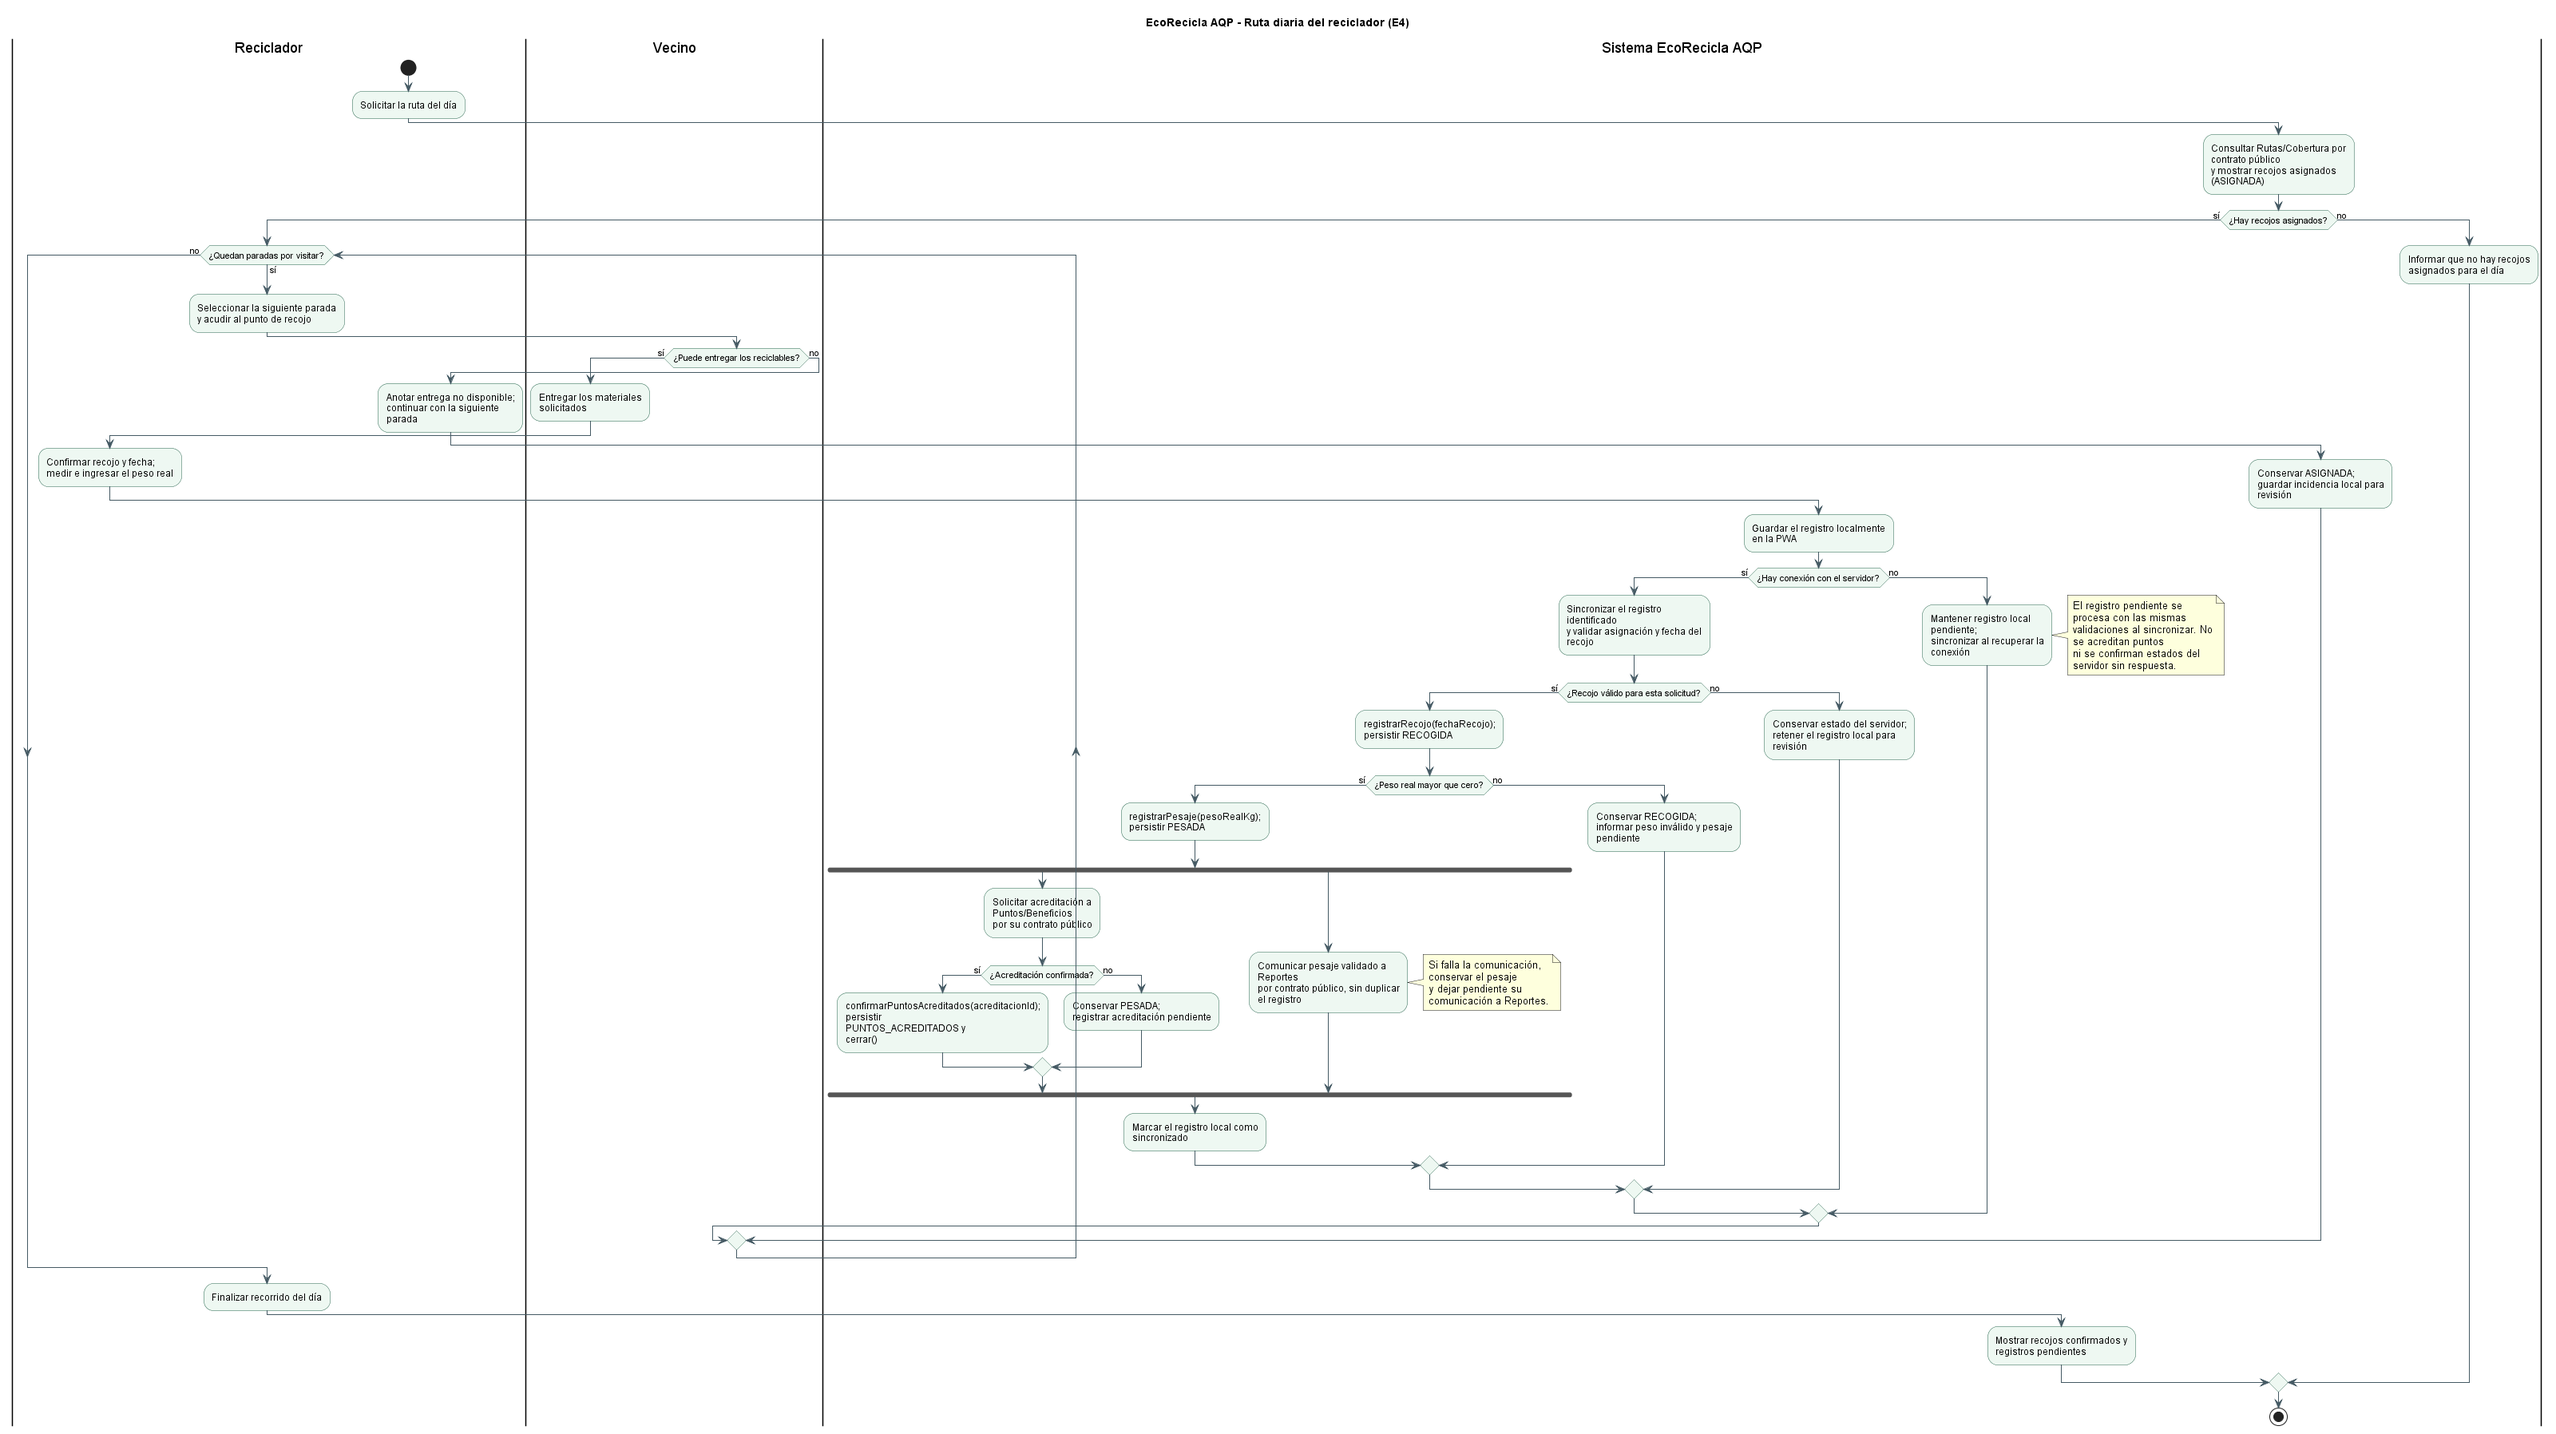
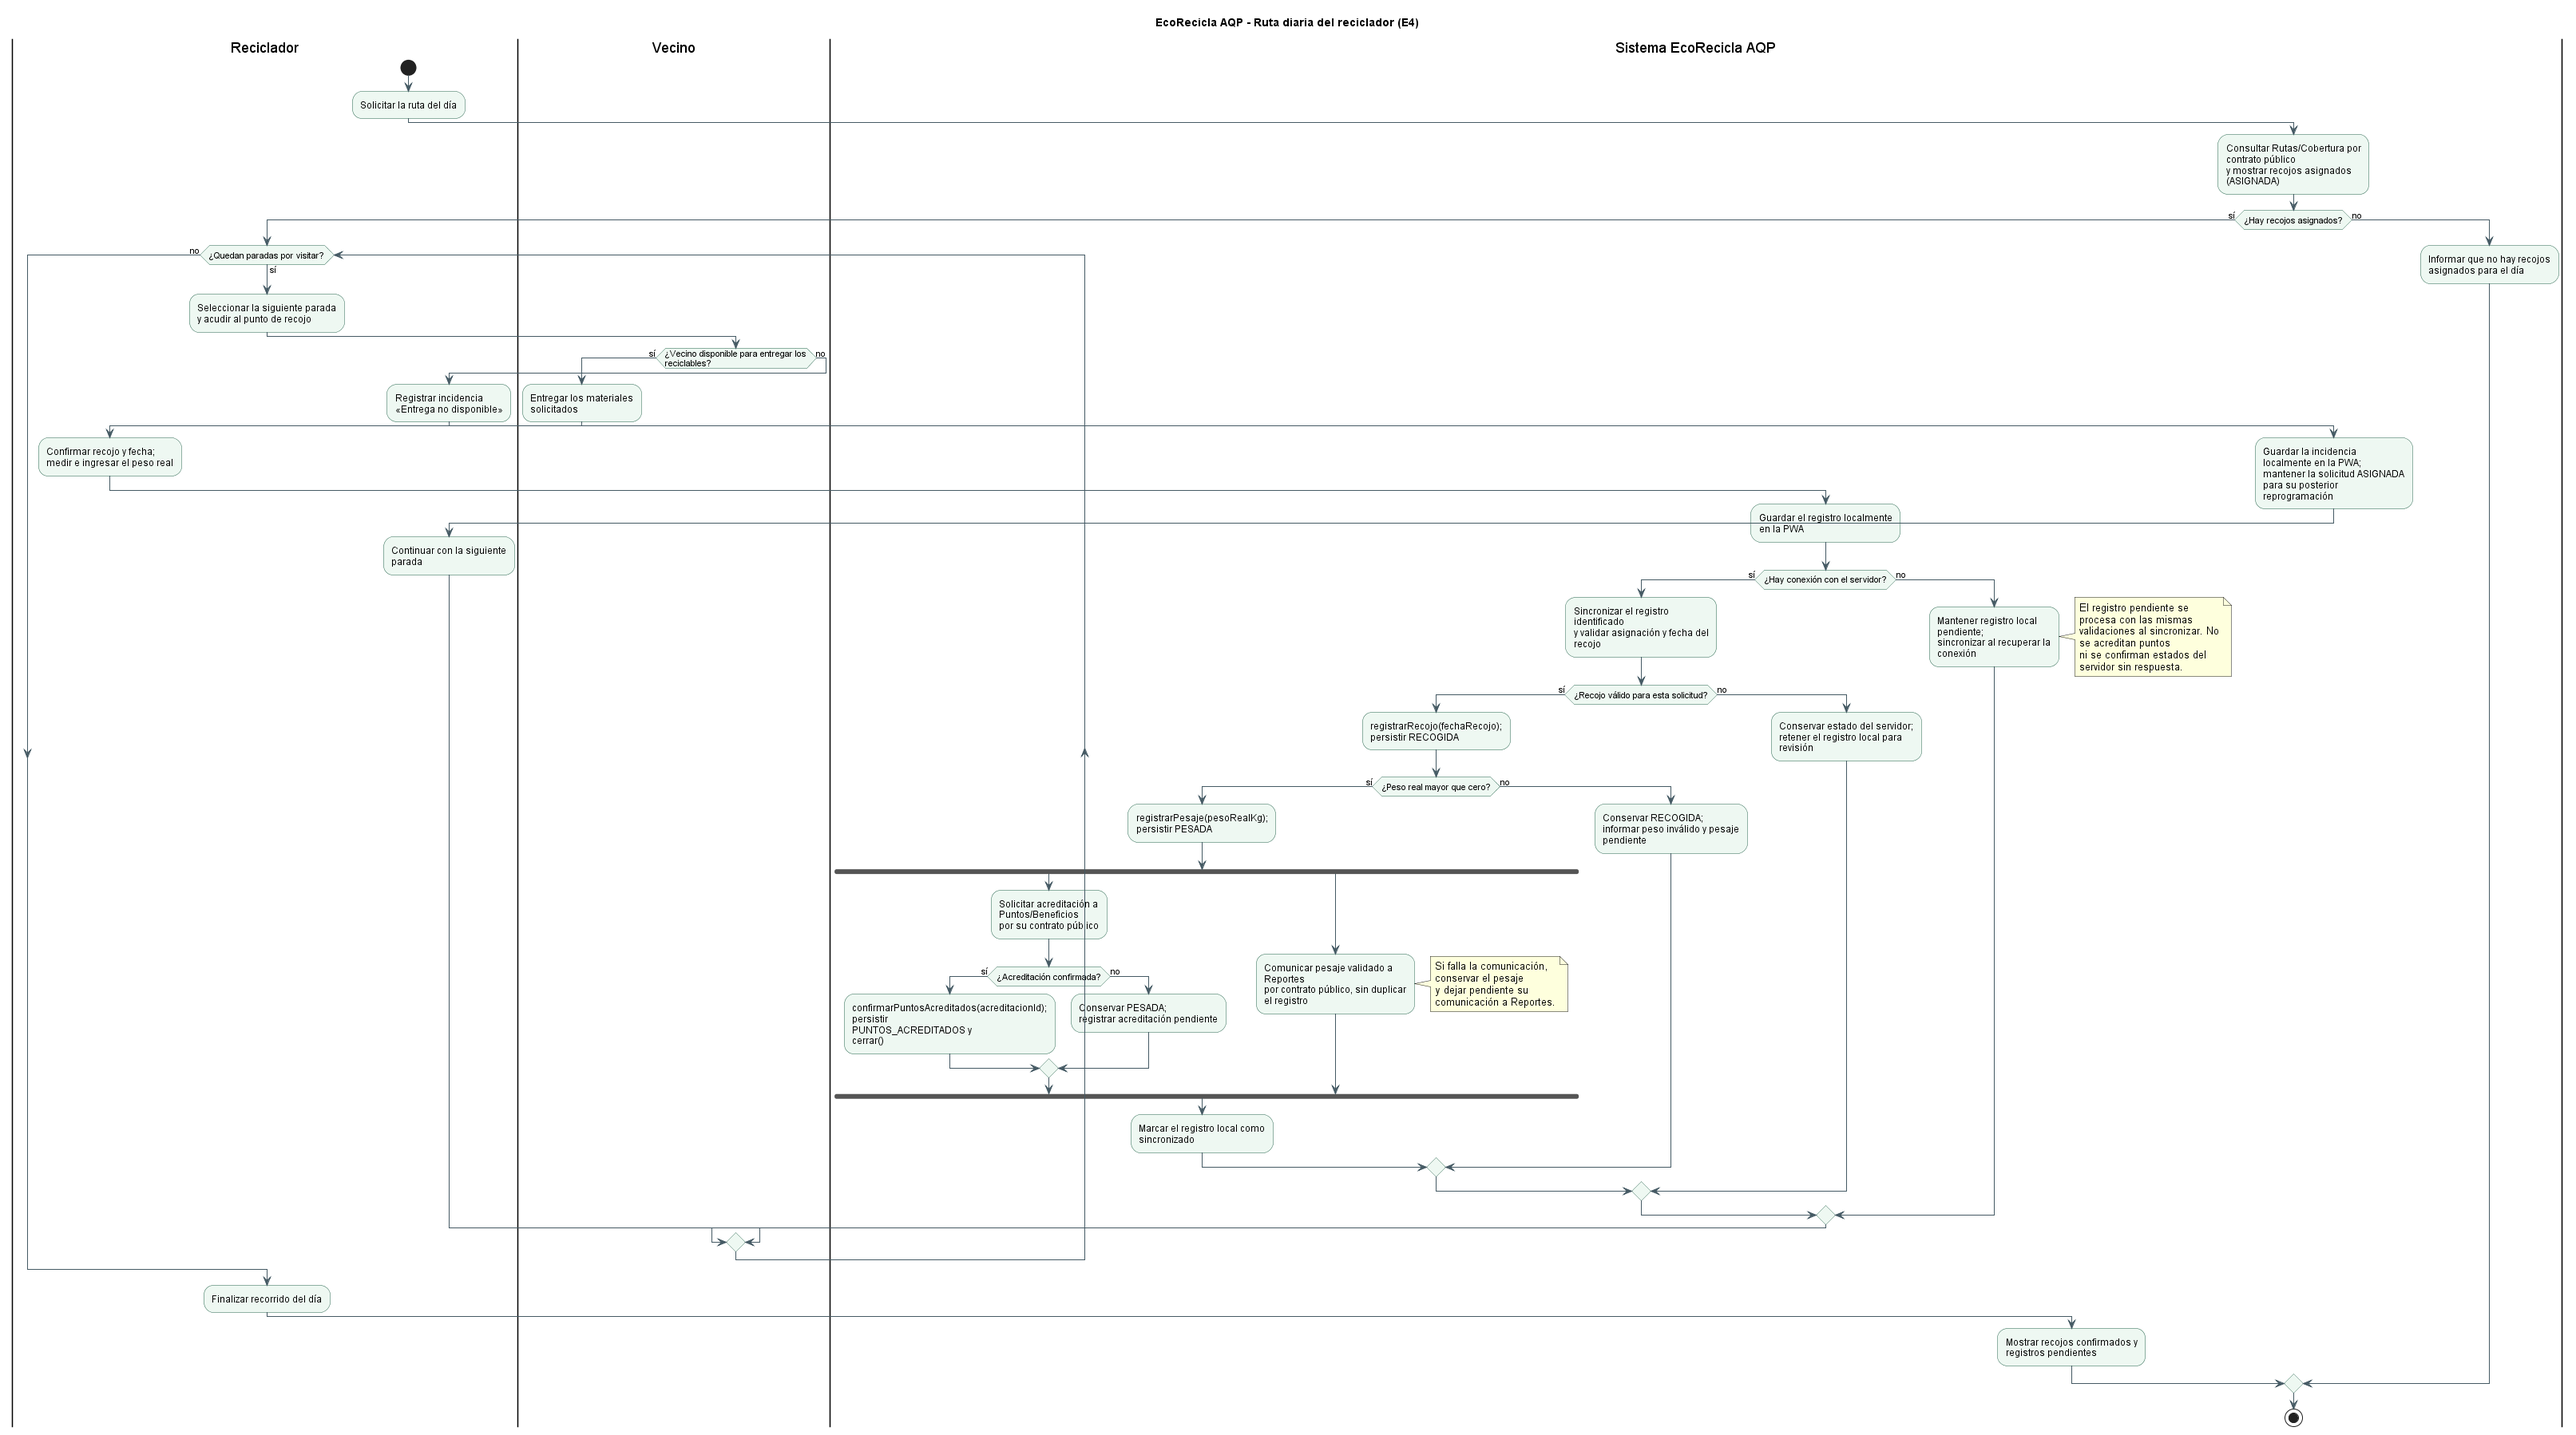
E4: registrar validación del proceso con usuario

diff --git a/docs/design/historia.md b/docs/design/historia.md
@@ -78,10 +78,10 @@ Hay cinco estados de negocio, seis transiciones con guardas, inicio y final. Tod
 
 La última columna de la tabla 7 indica «Ruta diaria del reciclador». El diagrama de actividades muestra tres particiones: Reciclador, Vecino y Sistema EcoRecicla AQP. El sistema representa el monolito modular; cada colaboración con Rutas/Cobertura, Puntos/Beneficios y Reportes usa sus contratos públicos, sin cambiar el ADR-001.
 
-El recorrido comienza con los recojos ya asignados. Si no hay paradas, se informa y termina. En cada parada se comprueba la disponibilidad de entrega. Si no se entregan materiales, se registra una incidencia y se conserva ASIGNADA para revisión; no se inventa un estado Cancelada. Si se entregan, el reciclador registra fecha y peso real. La PWA conserva el registro local según QA-02 y ADR-003; sin conexión queda pendiente, y al sincronizar se aplican las mismas validaciones antes de confirmar estados del servidor.
+El recorrido comienza con los recojos ya asignados. Si no hay paradas, se informa y termina. En cada parada se comprueba si el vecino está disponible para entregar. Si no lo está, se registra la incidencia «Entrega no disponible», se guarda localmente en la PWA y se mantiene la solicitud ASIGNADA para su posterior reprogramación, continuando con la siguiente parada. No se introduce un estado Cancelada ni se registra un recojo realizado. Si se entregan materiales, el reciclador registra fecha y peso real. La PWA conserva el registro local según QA-02 y ADR-003; sin conexión queda pendiente, y al sincronizar se aplican las mismas validaciones antes de confirmar estados del servidor.
 
 Un recojo válido pasa a RECOGIDA y un peso positivo a PESADA, coherentes con E3. La acreditación de puntos y la comunicación del pesaje a Reportes se ejecutan en ramas paralelas delimitadas por fork/join. Un fallo de acreditación conserva PESADA; un fallo de comunicación a Reportes conserva el pesaje y deja su comunicación pendiente. Marcar un registro local como sincronizado confirma que el servidor recibió los datos del recojo, sin implicar que todos los trabajos posteriores estén completos.
 
 Son supuestos del modelo el pesaje en el punto de recojo, las incidencias de entrega, el tratamiento de registros rechazados y el mecanismo de pendientes; no se afirma una implementación. No se define aquí la optimización de rutas, la fórmula de puntos ni el sistema de reportes. Las actividades de comunicación y revisión no son mensajes UML sujetos a C1; el diagrama de clases conserva las operaciones de cambio de estado.
 
-**Estado de E4:** borrador técnico verificado; revisión con la compañera pendiente. El usuario confirmó que todavía no se realizó esa revisión y pidió continuar con el borrador. Para completar el requisito de la guía queda revisar el proceso con la compañera y registrar un cambio concreto surgido de esa revisión. No se registra una validación humana como realizada ni se atribuyen a ella los ajustes técnicos del asistente.
+**Validación del proceso:** registrada según la revisión y el resultado comunicados por el usuario el 2026-10-11. Se explicitó la rama de vecino no disponible, la incidencia «Entrega no disponible», su almacenamiento local en la PWA y la conservación de ASIGNADA para posterior reprogramación. El registro de la revisión está en bitacora-ia.md. La revisión del cambio en el PR y su integración siguen a cargo de la compañera. No se modela cómo se ejecuta la reprogramación; se conserva el ciclo E3 sin transiciones adicionales.

diff --git a/docs/design/bitacora-ia.md b/docs/design/bitacora-ia.md
@@ -138,8 +138,18 @@ Se verificó el modelo y su renderización; no hay implementación, pruebas func
 
 **Verificaciones:** comprobación PlantUML -checkonly y renderización PNG local con el entorno ya documentado. Revisión visual de actividades, decisiones, bucle y barras de fork/join. Correspondencia de los cambios de estado con E3 y de los contratos entre módulos con ADR-001. No se desarrollan E5-E8 ni se modifica Lab04.
 
-**Revisión humana E4:** pendiente. Se solicitó al usuario que actúe como vecino o reciclador, revise el flujo y señale un cambio concreto, incluyendo el lugar/momento del pesaje. No se inventa una respuesta, identidad de compañero ni validación del proceso real.
+**Revisión humana E4 (estado al 2026-10-10):** pendiente en ese momento. Se solicitó al usuario que actúe como vecino o reciclador, revise el flujo y señale un cambio concreto, incluyendo el lugar/momento del pesaje. La actualización comunicada el 2026-10-11 se registra al final de esta sección.
 
 **Aclaración recibida del usuario:** «Todavía no hemos realizado la revisión con mi compañera. Deja ese apartado como pendiente y continúa con el borrador, sin registrar una validación humana como realizada». Se mantiene E4 como borrador técnico verificado y se deja pendiente la revisión con la compañera y el cambio que resulte de ella. Esta aclaración no valida el proceso ni confirma el supuesto de pesaje en el punto de recojo.
 
 **Git:** rama lab05-e4-actividades creada desde E3 522f3b6. Se conserva el cambio de despliegue.py; AgroConecta no se modifica ni se prepara para commit. La preparación y revisión se limitan a las rutas de actividades, su PNG, historia y bitácora. No se hace push, PR ni integración.
+
+**Actualización solicitada el 2026-10-11:** el usuario informó que su compañera revisó E4 y proporcionó el resultado y el bloque de validación siguiente para incorporarlos. Este registro se basa en lo comunicado por el usuario; el asistente no presenció la simulación. La rama de entrega no disponible ya existía; se precisaron sus etiquetas para identificar la ausencia del vecino, nombrar la incidencia, indicar almacenamiento en la PWA y posterior reprogramación conservando ASIGNADA. Se regeneró el PNG, se comprobó la sintaxis y se revisó visualmente. No se encontraron contradicciones con clases y estados: la rama no invoca registrarRecojo ni cambia a RECOGIDA. El detalle de reprogramación queda fuera del modelo actual. Se conservan las notas históricas anteriores como registro del estado previo, no como pendientes actuales.
+
+### Validación del proceso con el usuario
+
+Se revisó el diagrama de actividades simulando el recorrido del reciclador durante una jornada de recojo.
+
+Resultado de la revisión: Se identificó la necesidad de contemplar el caso en que el vecino no se encuentre disponible en el punto de recojo.
+
+Ajuste incorporado: Se documentó la rama de decisión para registrar la incidencia «Entrega no disponible», almacenar el registro localmente en la PWA y mantener la solicitud en estado ASIGNADA para su posterior reprogramación.
